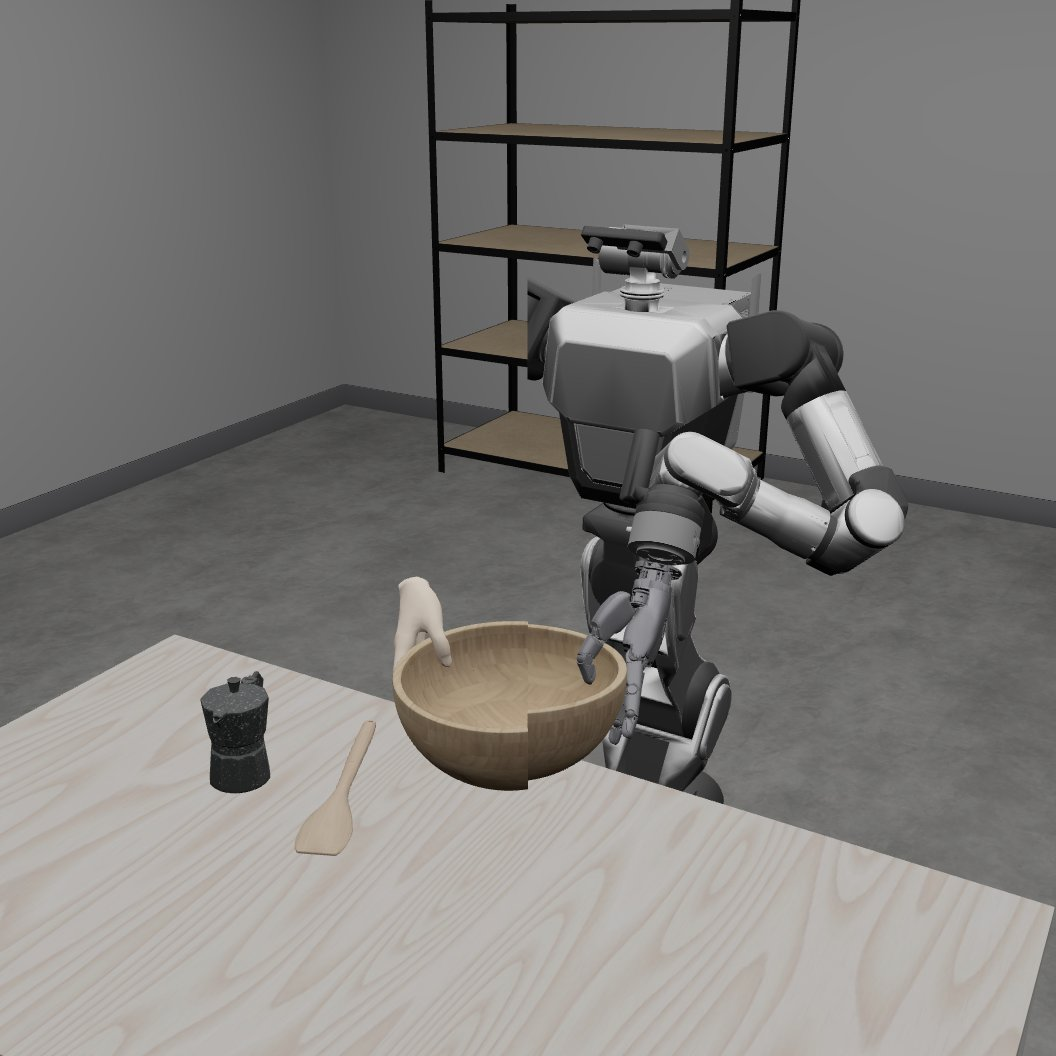
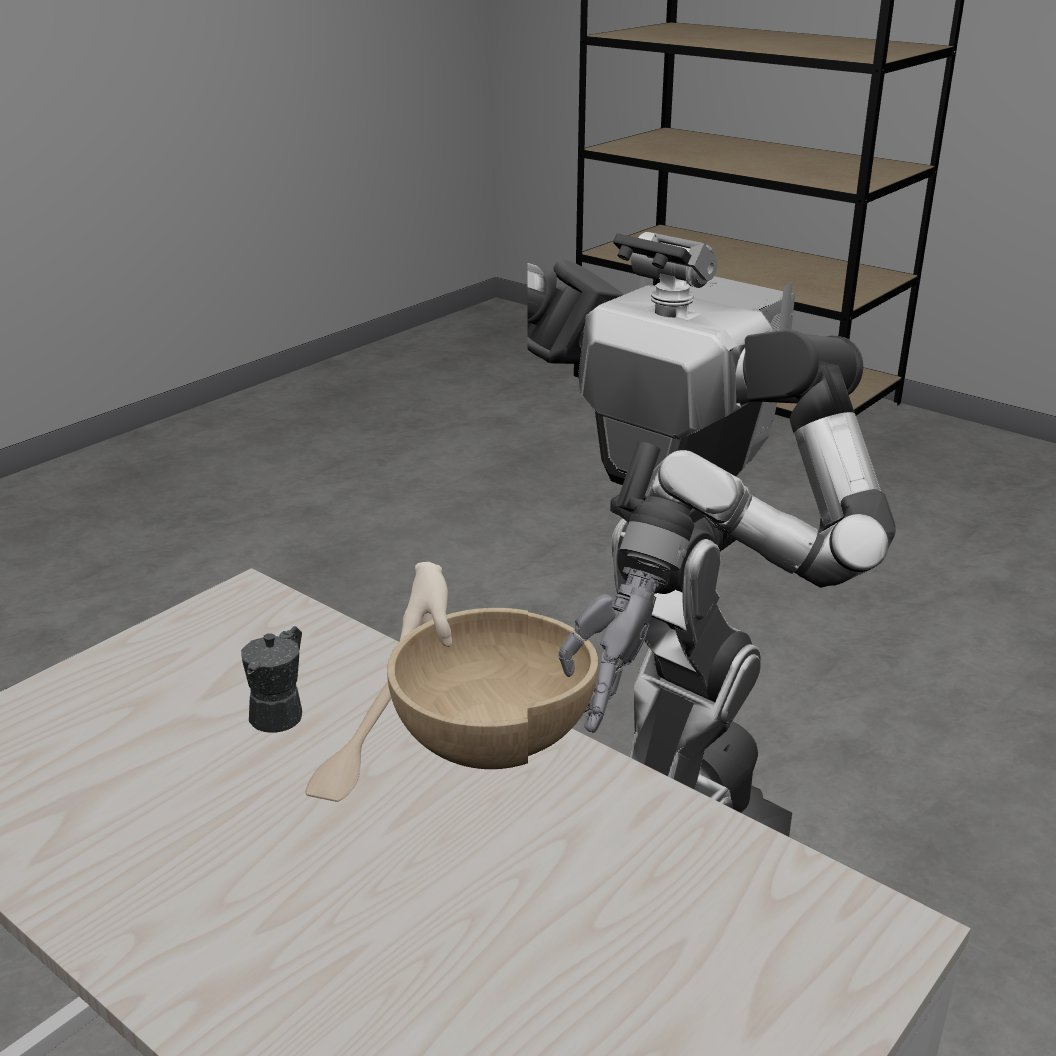
Overview split view: the default camera is a side view (exo is the recorded camera in front of the robot)

Changed region(s): [[0.0, 0.0, 1.0, 1.0], [0.0, 0.875, 0.1562, 1.0], [0.2188, 0.0, 0.3438, 0.0625]]

diff --git a/public/dexengine/index.html b/public/dexengine/index.html
@@ -565,7 +565,7 @@ abbr { text-decoration: none; }
     <div class="widget v3d" id="split">
       <div class="stage3d" data-still-d="assets/3d/still_split_d.jpg" data-still-m="assets/3d/still_split_m.jpg"><span class="ovl slab sl">Human<span class="lw"> demonstration</span></span><span class="ovl r slab sr">Robot<span class="lw"> episode</span></span>
         <div class="split-bar" style="--s: 50%"><div class="split-knob" tabindex="0" role="slider" aria-label="Divider between the human demonstration and the robot episode" aria-valuemin="0" aria-valuemax="100" aria-valuenow="50" aria-valuetext="Human on the left half, robot on the right half"><svg viewBox="0 0 24 24" aria-hidden="true" focusable="false"><path d="M9 6l-6 6 6 6M15 6l6 6-6 6"/></svg></div></div></div>
-      <div class="ctrl"><button class="pbtn" type="button">Pause</button><input type="range" min="0" max="255" value="0" aria-label="Frame"><button class="chip vfront" type="button">Front view</button><button class="chip vego" type="button">Ego view</button><button class="chip vexo" type="button">Exo view</button></div>
+      <div class="ctrl"><button class="pbtn" type="button">Pause</button><input type="range" min="0" max="255" value="0" aria-label="Frame"><button class="chip vside" type="button">Side view</button><button class="chip vego" type="button">Ego view</button><button class="chip vexo" type="button">Exo view</button></div>
       <p class="cap">A HOT3D demonstration and the robot episode generated from it with the SharpA hand, frame by frame.</p>
     </div>
     <dl class="figs">
@@ -1545,7 +1545,7 @@ function hasGL() {
 }
 // A lazily started three.js view: renders only while on screen.
 function markView(root, cls) {   // the view chip of the current camera is on; none after the reader drags the view
-  $$('.ctrl .chip', root).forEach(b => { if (/\bv(front|ego|wide|close|exo)\b/.test(b.className)) b.classList.toggle('on', !!cls && b.classList.contains(cls)); });
+  $$('.ctrl .chip', root).forEach(b => { if (/\bv(front|ego|wide|close|exo|side)\b/.test(b.className)) b.classList.toggle('on', !!cls && b.classList.contains(cls)); });
 }
 class View3D {
   constructor(root, onFrame) {
@@ -2165,7 +2165,8 @@ class EpView {
 // ---------- overview: one recorded episode and its human demonstration in one camera, split by a line the reader drags ----------
 // Left of the line: the human demonstration (MANO hands, objects at their human poses — tools/export_split.py, the data's own
 // chain, frame for frame with the episode). Right of it: the robot episode (tools/export_ep.py). Room, desk and the static extra
-// object are drawn on both sides. Cameras: a front view, the recorded head camera (ego) and the recorded exocentric camera.
+// object are drawn on both sides. Cameras: a side view, the recorded head camera (ego) and the recorded exocentric camera (exo, in
+// front of the robot and above it).
 (function split3d() {
   const root = $('#split'); if (!root) return;
   const S = D.split, box = $('.stage3d', root), bar = $('.split-bar', root), knob = $('.split-knob', root);
@@ -2191,7 +2192,7 @@ class EpView {
       on.forEach(m => hg.add(m));
       E = e; Hm = {j: hj, g: hg, hands, on, ot: new Track(hb, hj.human.obj, hj.frames, on.length)};
       scrub.max = hj.frames - 1;
-      pose(); look('front', true); view.setMsg('');
+      pose(); look('side', true); view.setMsg('');
     } catch (err) { view.setMsg('3D scene failed to load (' + err.message + ')'); }
   };
   function pose() {
@@ -2208,10 +2209,10 @@ class EpView {
   // the one that keeps the recorded horizontal fov (ego: ZED Mini HD720, fy 732 -> 52.4° x 82.3°; exo: square, from the episode)
   function fit(vf, hf) { const a = view.camera.aspect || 1; return Math.max(vf, 2 * Math.atan(Math.tan(hf * Math.PI / 360) / a) * 180 / Math.PI); }
   function cams() {
-    const j = E.j, f = j.focus, t = [f[0] - 0.15, f[1], f[2] + 0.22];      // front view: from the robot's front left, the bowl at the line
+    const j = E.j, f = j.focus, t = [f[0] - 0.15, f[1], f[2] + 0.22];      // side view: from the robot's left, about 40° off its front, the bowl at the line
     const Hc = j.camH, M = Hc.M[Math.min(Hc.M.length - 1, Math.floor((Hm.j.f0 + frame) / Hc.every))];
     const x = Hm.j.exo;
-    return {front: {eye: [t[0] + 1.25, t[1] + 0.72, t[2] + 0.58], target: t, fov: 47},
+    return {side: {eye: [t[0] + 1.15, t[1] + 0.95, t[2] + 0.81], target: t, fov: 47},
             ego: {eye: [M[0][3], M[1][3], M[2][3]], target: [M[0][3] + M[0][2], M[1][3] + M[1][2], M[2][3] + M[2][2]], fov: fit(52.4, 82.3)},
             exo: {eye: x.eye, target: x.target, fov: fit(x.fov, x.fov)}};
   }
@@ -2262,7 +2263,7 @@ class EpView {
   btn.addEventListener('click', () => { playing = !playing; btn.textContent = playing ? 'Pause' : 'Play'; });
   scrub.addEventListener('input', () => { if (!Hm) return; dragging = true; frame = +scrub.value; ft = frame; pose(); });
   scrub.addEventListener('change', () => { dragging = false; });
-  for (const k of ['front', 'ego', 'exo']) $('.v' + k, root).addEventListener('click', () => look(k));
+  for (const k of ['side', 'ego', 'exo']) $('.v' + k, root).addEventListener('click', () => look(k));
   root.__ep = () => ({shown: E && Hm ? 1 : 0, frame, n: Hm ? Hm.j.frames : 0, s});
   root.__split = {set: setS, look: k => look(k, true), frame: f => { frame = f; ft = f; playing = false; pose(); },
                   cam: c => { view.look(c, true); view.camera.fov = c.fov; view.camera.updateProjectionMatrix(); fovB = c.fov; }, info: () => ({focus: E.j.focus, base: E.j.base})};
